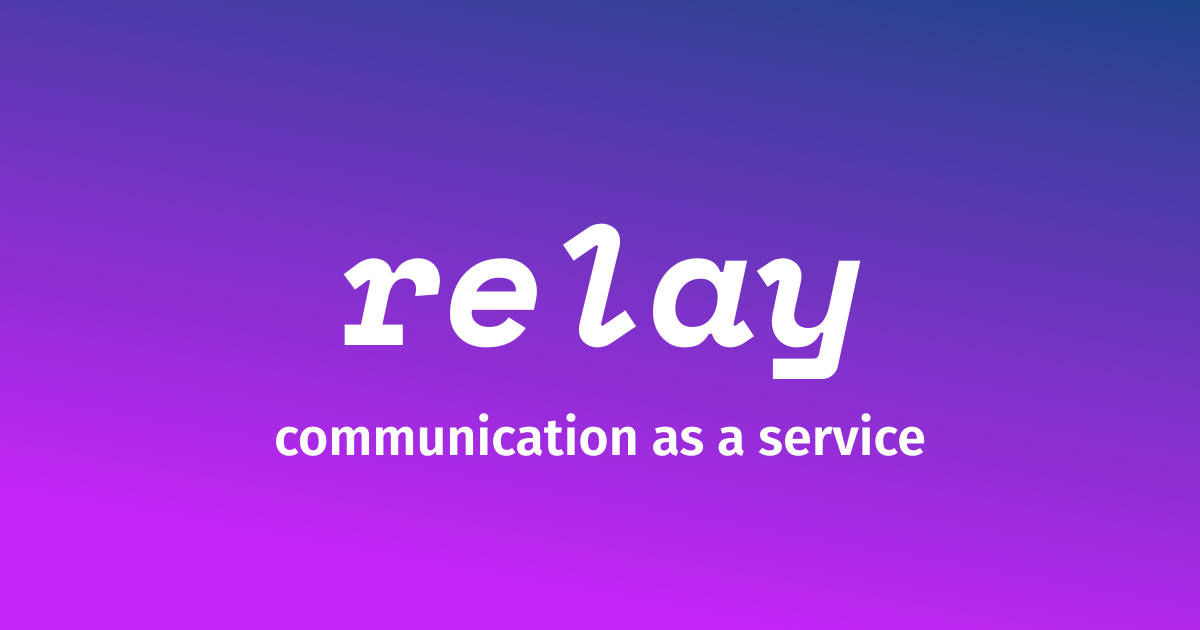
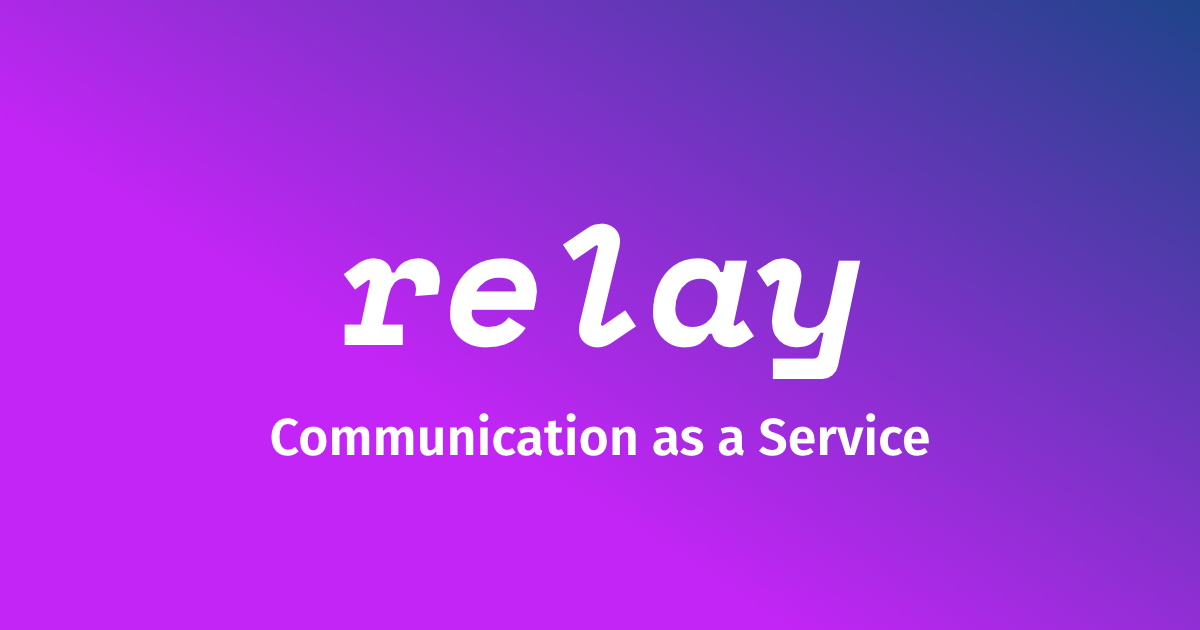
Add more branding

diff --git a/README.md b/README.md
@@ -1,3 +1,5 @@
+![relay - Communication as a Serivce](https://github.com/codingjoe/relay/raw/main/root/static/img/og-image.png)
+
 # relay: Developer-First IT Infrastructure
 
 A developer-first IT infrastructure provider. We build superior products and
